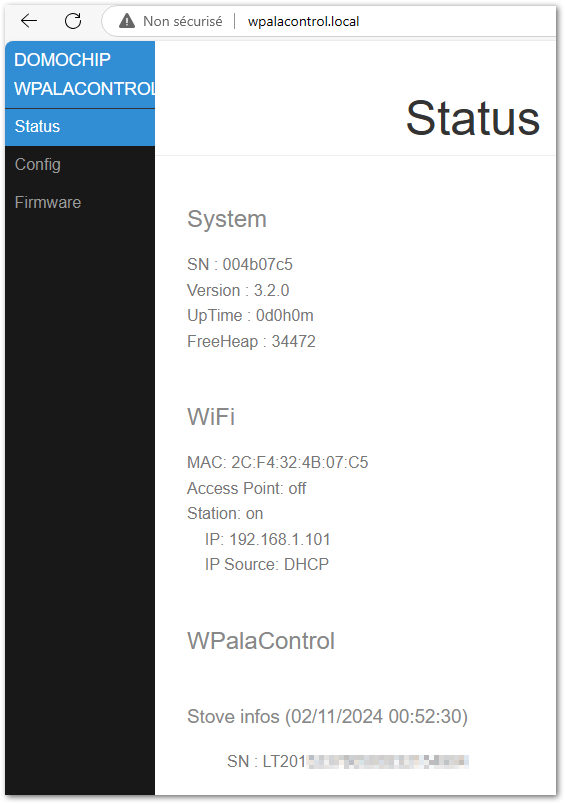
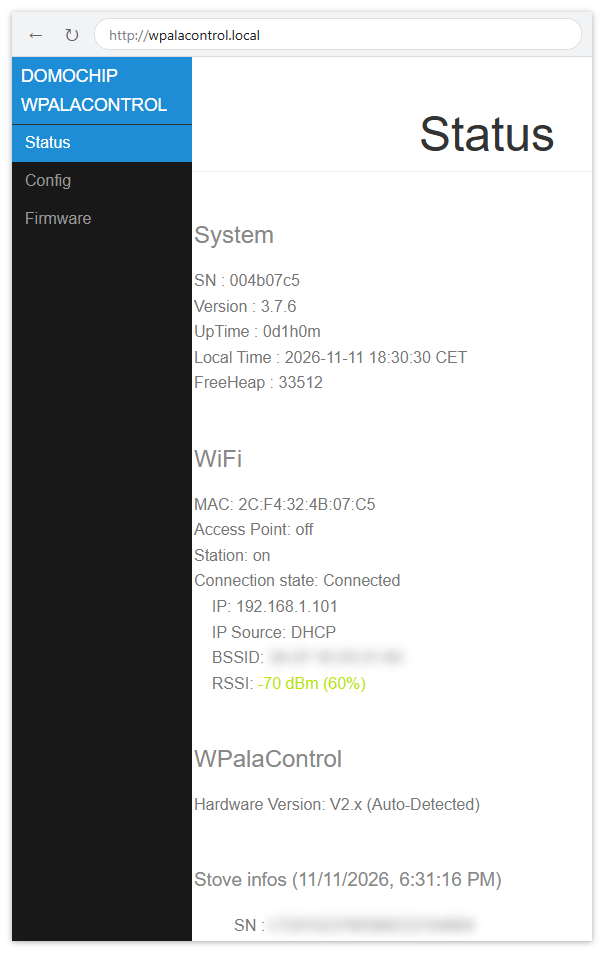
Update README.md with detailed status information and refresh status images

Changed region(s): [[0.0, 0.0, 0.9929, 0.995], [0.6319, 0.3731, 0.7522, 0.4042], [0.6319, 0.6841, 0.6619, 0.7152]]

diff --git a/README.md b/README.md
@@ -70,8 +70,15 @@ If not, go to 👉 <http://wpalacontrol.local> 👈
 
 ### Status
 
-Provides useful information about the module and the stove.  
-**The stove SN appears then followed, 1 minute later, by refreshed stove information**  
+Provides useful information about the module and the stove:
+
+- **System**: module serial number, firmware version, uptime, local time (NTP) and free memory. Logged crashes are listed if any
+- **WiFi**: MAC address, Access Point status (and IP), Station status with connection state, IP, IP source (DHCP or Static IP), BSSID and signal strength (RSSI)
+- **WPalaControl**:
+  - **Hardware Version**: detected (or forced) hardware version of the module
+  - **Stove infos**: the stove SN appears first, then all stove values are refreshed live every "Upload Period" (values that changed are shown in bold)
+  - **Home Automation Status**: protocol, MQTT connection state and result of the last publish
+
 <img src="img/status.png" alt="status screenshot" width="400" style="vertical-align: top;"><img src="img/status2.png" alt="status2 screenshot"  width="400">
 
 ### Config
